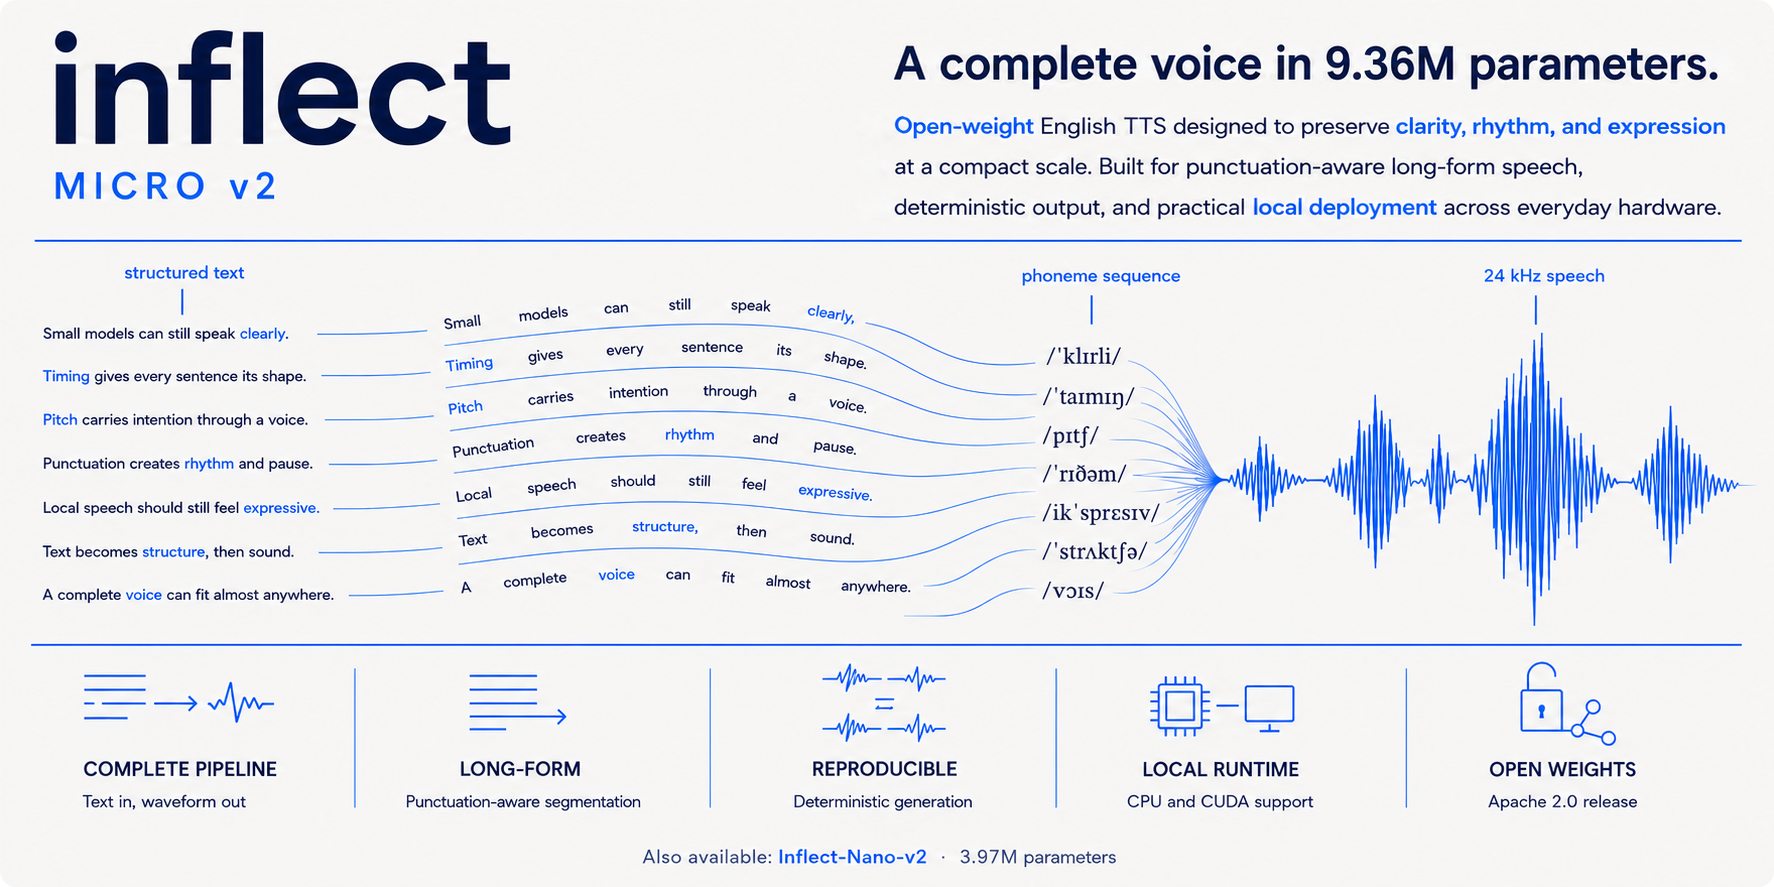
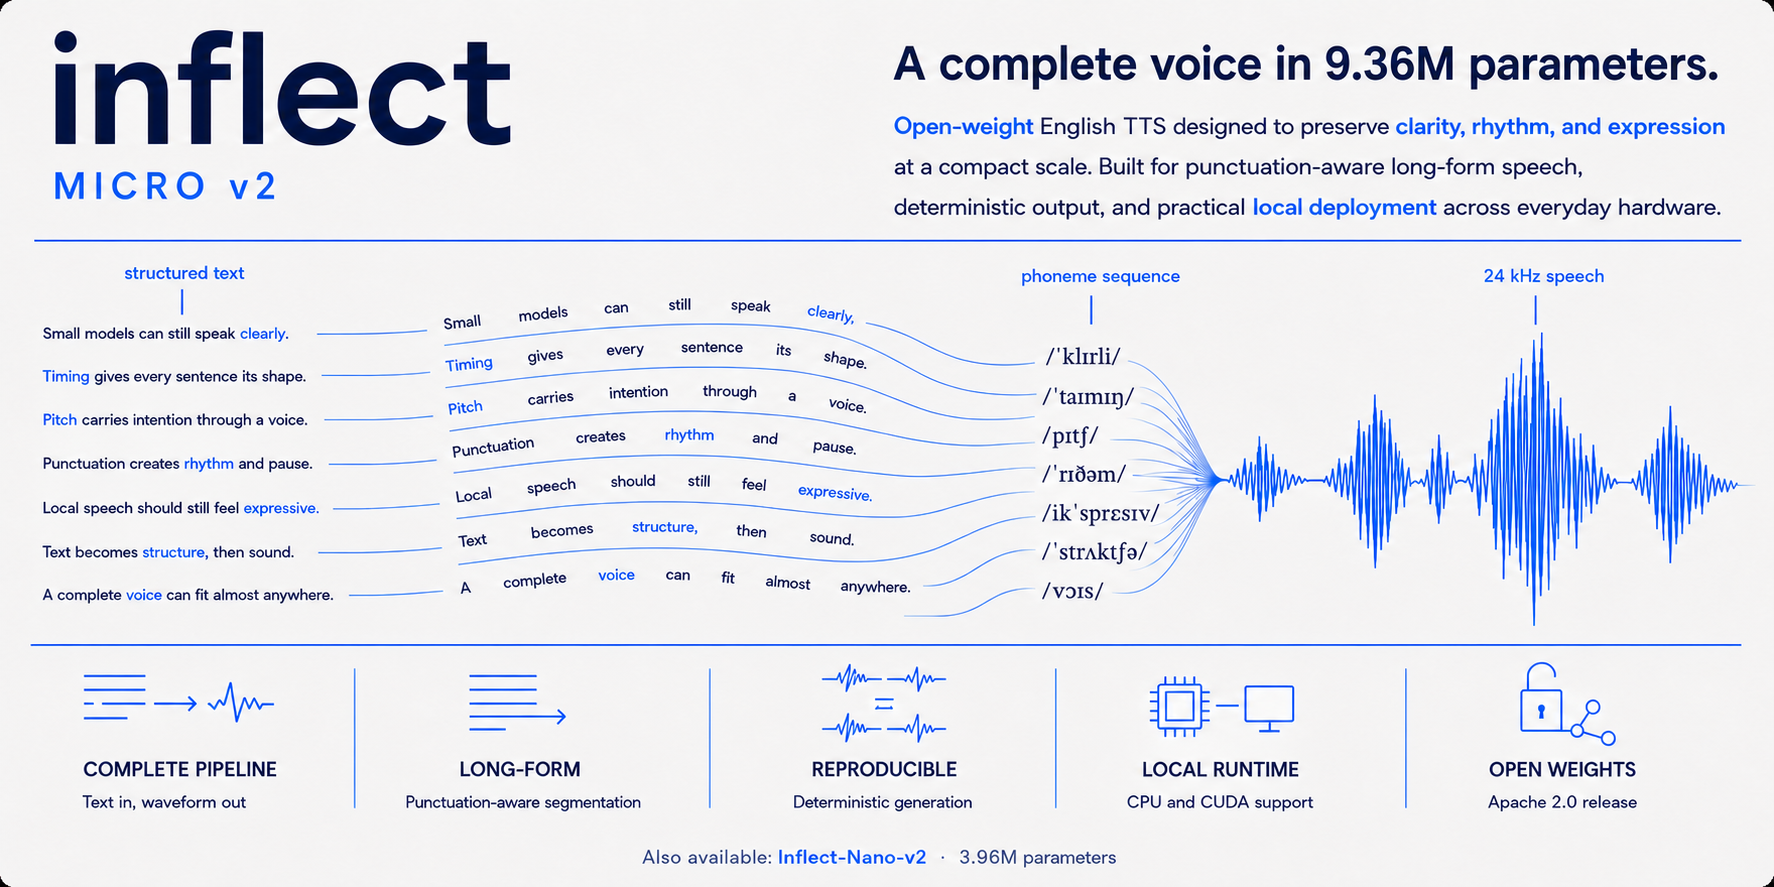
Standardize Inflect Nano display size to 3.96M

diff --git a/hf_spaces/inflect-v2-private-playground/app.py b/hf_spaces/inflect-v2-private-playground/app.py
@@ -60,7 +60,7 @@ SPECS = {
     "Inflect Nano v2": ModelSpec(
         label="Inflect Nano v2",
         short_label="Nano",
-        params="3.97M",
+        params="3.96M",
         checkpoint=ROOT / "models" / "nano" / "model.pth",
         config=ROOT / "models" / "nano" / "config.json",
         revision="bfca4684",
@@ -362,7 +362,7 @@ with gr.Blocks(title="Inflect v2 · local speech playground") as demo:
       <p>Generate 24 kHz English speech with the published Inflect-Micro-v2 and Inflect-Nano-v2 checkpoints. The full text-to-waveform path runs here: no reference clip, external vocoder, hosted teacher, or prerecorded result.</p>
       <div class="model-facts">
         <div class="model-fact"><strong>9.36M · Micro</strong>quality-first model</div>
-        <div class="model-fact"><strong>3.97M · Nano</strong>footprint-first model</div>
+        <div class="model-fact"><strong>3.96M · Nano</strong>footprint-first model</div>
         <div class="model-fact"><strong>24 kHz WAV</strong>complete waveform output</div>
         <div class="model-fact"><strong>Local stack</strong>text normalization through audio</div>
       </div>
@@ -447,7 +447,7 @@ with gr.Blocks(title="Inflect v2 · local speech playground") as demo:
         )
         with gr.Row():
             micro_audio = gr.Audio(label="Micro v2 · 9.36M · quality first")
-            nano_audio = gr.Audio(label="Nano v2 · 3.97M · footprint first")
+            nano_audio = gr.Audio(label="Nano v2 · 3.96M · footprint first")
         compare_status = gr.Markdown("", elem_classes="outputmeta")
     gr.HTML("""<p class="fineprint">Fixed English voice · English-only frontend · no voice cloning · no reference audio upload. Uncommon names, abbreviations, and long passages can still fail. Generated audio is returned to your browser; this interface does not ask for an account or personal information.</p>""")
     generate.click(synthesize_one, [text, model, speed, variation, pitch, seed], [audio, status], concurrency_limit=1, api_name="synthesize")

diff --git a/scripts/build_inflect_v2_model_cards.py b/scripts/build_inflect_v2_model_cards.py
@@ -78,7 +78,7 @@ MODELS = (
         role="portability-focused",
         limit="4M",
         params="3,966,721",
-        params_short="3.97M",
+        params_short="3.96M",
         weights="15.97 MB",
         utmos="4.386",
         utmos_ci="4.372–4.399",
@@ -126,7 +126,7 @@ def sample_rows(model: Model) -> str:
 
 
 def navigation(model: Model) -> str:
-    sibling_label = "Nano_3.97M" if model.repo == "Inflect-Micro-v2" else "Micro_9.36M"
+    sibling_label = "Nano_3.96M" if model.repo == "Inflect-Micro-v2" else "Micro_9.36M"
     sibling_alt = "Inflect Nano v2" if model.repo == "Inflect-Micro-v2" else "Inflect Micro v2"
     return f"""<p align="center">
   <a href="https://huggingface.co/spaces/owensong/Inflect-v2"><img alt="Live playground" src="https://img.shields.io/badge/Playground-0B2A54?style=for-the-badge&logo=huggingface&logoColor=white"></a>

diff --git a/README.md b/README.md
@@ -1,10 +1,10 @@
 <h1 align="center">Inflect v2</h1>
-<p align="center"><strong>Complete 24 kHz English text-to-waveform TTS at 3.97M and 9.36M parameters.</strong><br>
+<p align="center"><strong>Complete 24 kHz English text-to-waveform TTS at 3.96M and 9.36M parameters.</strong><br>
 Two local models. One runtime. No external vocoder or hosted inference component.</p>
 
 <p align="center">
   <a href="https://huggingface.co/spaces/owensong/Inflect-v2"><img alt="Playground" src="https://img.shields.io/badge/PLAYGROUND-1769E0?style=for-the-badge&logo=huggingface&logoColor=white"></a>
-  <a href="https://huggingface.co/owensong/Inflect-Nano-v2"><img alt="Inflect Nano v2" src="https://img.shields.io/badge/NANO_3.97M-F7FAFF?style=for-the-badge&logo=huggingface&logoColor=1769E0"></a>
+  <a href="https://huggingface.co/owensong/Inflect-Nano-v2"><img alt="Inflect Nano v2" src="https://img.shields.io/badge/NANO_3.96M-F7FAFF?style=for-the-badge&logo=huggingface&logoColor=1769E0"></a>
   <a href="https://huggingface.co/owensong/Inflect-Micro-v2"><img alt="Inflect Micro v2" src="https://img.shields.io/badge/MICRO_9.36M-0B2A54?style=for-the-badge&logo=huggingface&logoColor=white"></a>
   <a href="docs/EVALUATION.md"><img alt="Evaluation" src="https://img.shields.io/badge/EVALUATION-8EC8FF?style=for-the-badge&logo=chartdotjs&logoColor=0B2A54"></a>
   <a href="https://discord.gg/CVJYedvzvp"><img alt="Discord" src="https://img.shields.io/badge/DISCORD-1769E0?style=for-the-badge&logo=discord&logoColor=white"></a>
@@ -233,7 +233,7 @@ components retain their own notices. Designed and developed independently by
 ```bibtex
 @software{song2026inflectv2,
   author = {Owen Song},
-  title = {Inflect v2: Complete Local Text-to-Waveform TTS at 3.97M and 9.36M Parameters},
+  title = {Inflect v2: Complete Local Text-to-Waveform TTS at 3.96M and 9.36M Parameters},
   year = {2026},
   url = {https://github.com/owenawsong/Inflect}
 }

diff --git a/hf_spaces/inflect-v2-private-playground/README.md b/hf_spaces/inflect-v2-private-playground/README.md
@@ -9,7 +9,7 @@ python_version: 3.12
 app_file: app.py
 pinned: false
 license: apache-2.0
-short_description: Run complete 3.97M and 9.36M text-to-waveform models live.
+short_description: Run complete 3.96M and 9.36M text-to-waveform models live.
 models:
   - owensong/Inflect-Micro-v2
   - owensong/Inflect-Nano-v2
@@ -24,7 +24,7 @@ tags:
 Live text-to-waveform inference for both Inflect v2 release models:
 
 - [Inflect-Micro-v2](https://huggingface.co/owensong/Inflect-Micro-v2): 9.36M parameters
-- [Inflect-Nano-v2](https://huggingface.co/owensong/Inflect-Nano-v2): 3.97M parameters
+- [Inflect-Nano-v2](https://huggingface.co/owensong/Inflect-Nano-v2): 3.96M parameters
 
 Every result is synthesized live from text. There is no reference audio,
 prerecorded fallback, or inference-time teacher model. Use the Compare tab to

diff --git a/CHANGELOG.md b/CHANGELOG.md
@@ -5,7 +5,7 @@
 ### Added
 
 - Inflect-Micro-v2, a complete 9.36M-parameter English text-to-waveform model.
-- Inflect-Nano-v2, a complete 3.97M-parameter English text-to-waveform model.
+- Inflect-Nano-v2, a complete 3.96M-parameter English text-to-waveform model.
 - Shared self-contained Python API and CLI for CPU and CUDA.
 - Integrated 24 kHz waveform generation with no external vocoder.
 - Deterministic seeds, speaking speed, and delivery-variation controls.

diff --git a/docs/INFLECT_V2_TECHNICAL_REPORT.md b/docs/INFLECT_V2_TECHNICAL_REPORT.md
@@ -94,7 +94,7 @@ are outside the release.
 ```bibtex
 @software{song2026inflectv2,
   author = {Owen Song},
-  title = {Inflect v2: Complete Local Text-to-Waveform TTS at 3.97M and 9.36M Parameters},
+  title = {Inflect v2: Complete Local Text-to-Waveform TTS at 3.96M and 9.36M Parameters},
   year = {2026},
   url = {https://github.com/owenawsong/Inflect}
 }

diff --git a/docs/INFLECT_V2_PUBLICATION_RUNBOOK_20260721.md b/docs/INFLECT_V2_PUBLICATION_RUNBOOK_20260721.md
@@ -44,7 +44,7 @@ validation.
 
 ## Supported Claims
 
-- Complete 24 kHz text-to-waveform models at 3.97M and 9.36M parameters.
+- Complete 24 kHz text-to-waveform models at 3.96M and 9.36M parameters.
 - Integrated waveform decoder with no external vocoder download.
 - One fixed English male voice per model.
 - Local PyTorch FP32 CPU and CUDA inference.

diff --git a/docs/INFLECT_V2_HERO_IMAGE_PROMPT.md b/docs/INFLECT_V2_HERO_IMAGE_PROMPT.md
@@ -30,7 +30,7 @@ Attach the current Inflect hero image as the visual reference, then paste:
 >
 > `Inflect-Nano-v2`
 >
-> `3.97M parameters`
+> `3.96M parameters`
 >
 > `Inflect-Micro-v2`
 >
